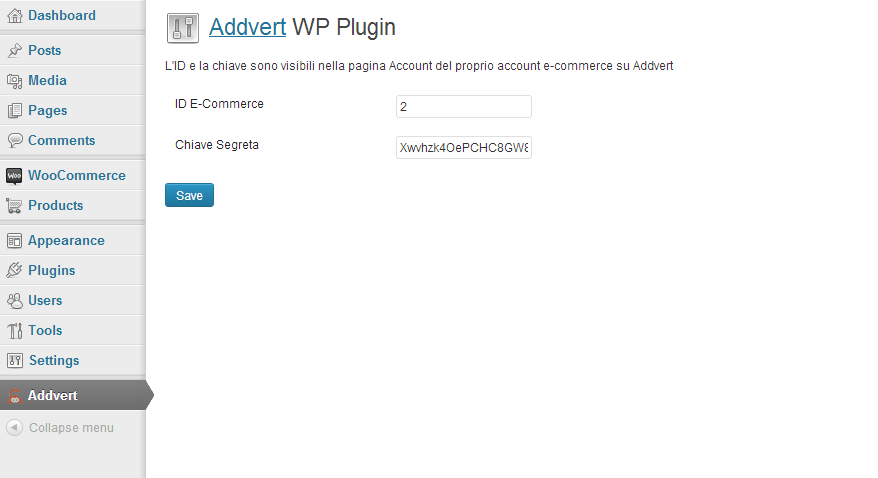
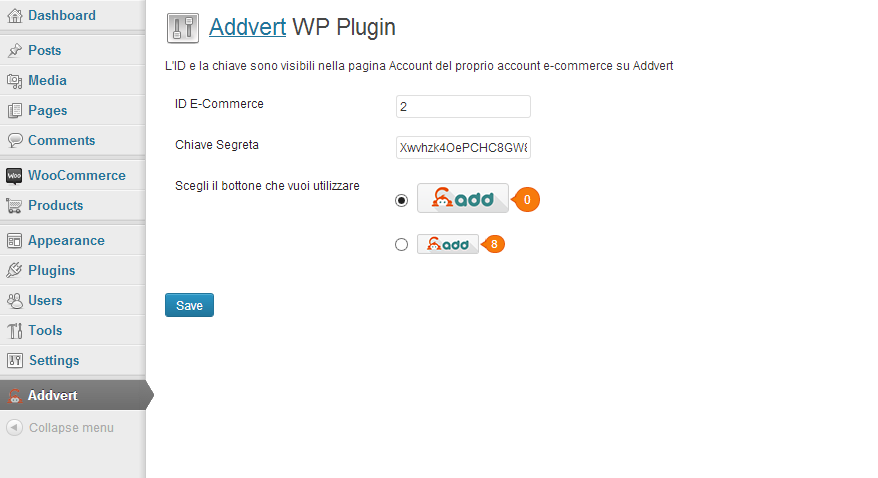
scelta tipo bottone

diff --git a/wp-addvert.php b/wp-addvert.php
@@ -3,16 +3,14 @@
   Plugin Name: WP Addvert
   Plugin URI: http://addvert.it
   Description: Aggiunge i meta tag necessari al funzionamento di Addvert e permette il tracciamento dell'ordine.
-  Version: 1.1
+  Version: 1.2
   Author: Riccardo Mastellone
  */
 
 class Addvert_Plugin {
-    
+
     protected $_base = "http://addvert.it";
-    
     protected $_metas = array();
-    
 
     public function __construct() {
 
@@ -29,6 +27,7 @@ class Addvert_Plugin {
             add_action('woocommerce_thankyou', array($this, 'addvert_tracking')); // Tracciamo l'ordine
         }
     }
+
     /**
      * Recuperiamo i dati dell'ordine, chiediamo ad Addvert la chiave e inseriamo lo script nella pagina
      */
@@ -36,11 +35,9 @@ class Addvert_Plugin {
         $order_id = apply_filters('woocommerce_thankyou_order_id', empty($_GET['order']) ? 0 : absint($_GET['order']) );
         $order = new WC_Order($order_id);
         $options = get_option('addvert_options');
-        $order_key =  file_get_contents($this->_base.'/api/order/prep_total?ecommerce_id='.$options['addvert_id'].'&secret='.$options['addvert_secret'].'&tracking_id='.$order_id.'&total='.$order->order_total);
-        wp_enqueue_script('addvert-tracking-js', $this->_base.'/api/order/send_total?key='.$order_key , array(), '', true);
-
+        $order_key = file_get_contents($this->_base . '/api/order/prep_total?ecommerce_id=' . $options['addvert_id'] . '&secret=' . $options['addvert_secret'] . '&tracking_id=' . $order_id . '&total=' . $order->order_total);
+        wp_enqueue_script('addvert-tracking-js', $this->_base . '/api/order/send_total?key=' . $order_key, array(), '', true);
     }
-    
 
     /**
      * Impediamo che il plugin venga attivato senza WooCommerce
@@ -58,12 +55,13 @@ class Addvert_Plugin {
      */
     function addvert_enqueue_scripts() {
         if (is_product()) {
-            wp_enqueue_script('addvert-js', $this->_base.'/api/js/addvert-btn.js', array(), '1.0', true);
+            wp_enqueue_script('addvert-js', $this->_base . '/api/js/addvert-btn.js', array(), '1.0', true);
         }
     }
 
     function show_addvert_button() {
-        echo '<div class="addvert-btn" data-width="450"></div>';
+        $options = get_option('addvert_options');
+        echo '<div class="addvert-btn" data-width="450" data-layout="'.$options['addvert_layout'].'"></div>';
     }
 
     function addvert_validate_options($input) {
@@ -73,7 +71,8 @@ class Addvert_Plugin {
     function addvert_get_defaults() {
         return array(
             "addvert_id" => NULL,
-            "addvert_secret" => NULL
+            "addvert_secret" => NULL,
+            "addvert_layout" => 'standard'
         );
     }
 
@@ -145,9 +144,9 @@ class Addvert_Plugin {
             <h2><a href="http://addvert.it">Addvert</a> WP Plugin</h2>
             <p>L'ID e la chiave sono visibili nella pagina Account del proprio account e-commerce su Addvert</p>
             <form method="post" action="options.php">
-                <?php settings_fields('addvert_plugin_options'); ?>
-                <?php $options = get_option('addvert_options');
-                ?>
+        <?php settings_fields('addvert_plugin_options'); ?>
+        <?php $options = get_option('addvert_options');
+        ?>
                 <table class="form-table">
                     <tr>
                         <th scope="row">ID E-Commerce</th>
@@ -159,6 +158,13 @@ class Addvert_Plugin {
                         <th scope="row">Chiave Segreta</th>
                         <td>
                             <input name="addvert_options[addvert_secret]" type='text' value='<?php echo $options['addvert_secret'] ?>'/>
+                        </td>
+                    </tr>
+                    <tr>
+                        <th scope="row">Scegli il bottone che vuoi utilizzare</th>
+                        <td>
+                             <input style="position: relative;bottom: 15px;" type="radio" name="addvert_options[addvert_layout]" value="standard" <?php if($options['addvert_layout']== 'standard') echo 'checked="checked"';?>/><img src="<?php echo plugins_url( '/button_standard.png', __FILE__ ) ?>"><br>
+                              <input style="position: relative;bottom: 15px;" type="radio" name="addvert_options[addvert_layout]" value="small" <?php if($options['addvert_layout']== 'small') echo 'checked="checked"';?>/> <img src="<?php echo plugins_url( '/button_small.png', __FILE__ ) ?>">
                         </td>
                     </tr>
                 </table>
